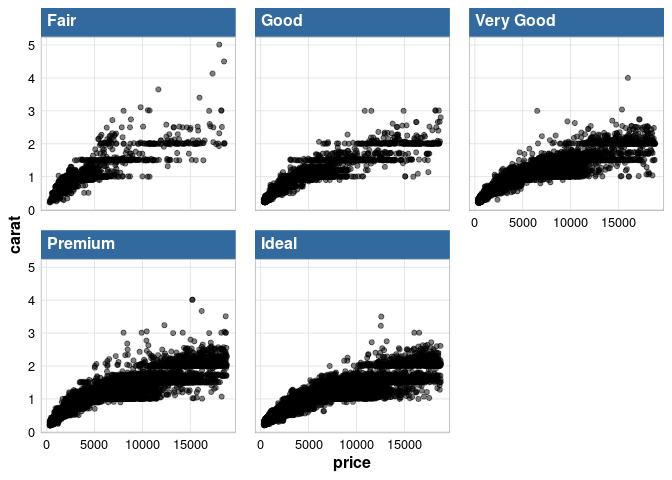
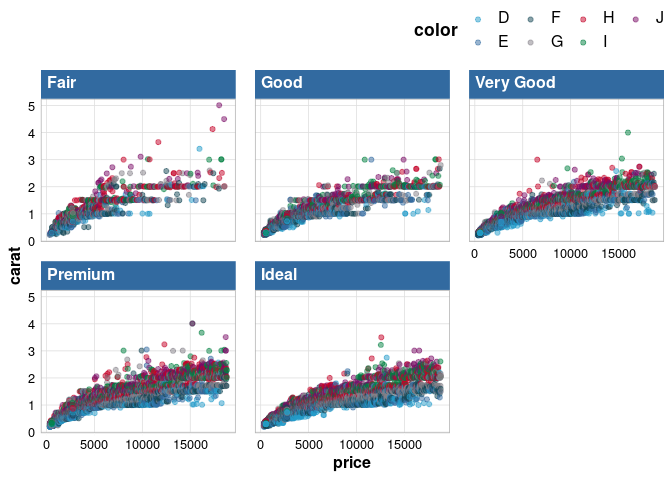
Use Covalence color scales in example figure

diff --git a/README.md b/README.md
@@ -33,7 +33,8 @@ library(ggplot2)
 library(covalencer)
 
 ggplot(data = diamonds, aes(x = price, y = carat)) +
-    geom_point(alpha = 0.5) +
+    geom_point(aes(color = color), alpha = 0.5) +
+    scale_colour_covalence_d(palette = "complete") +
     facet_wrap(vars(cut)) +
     theme_covalence()
 ```
